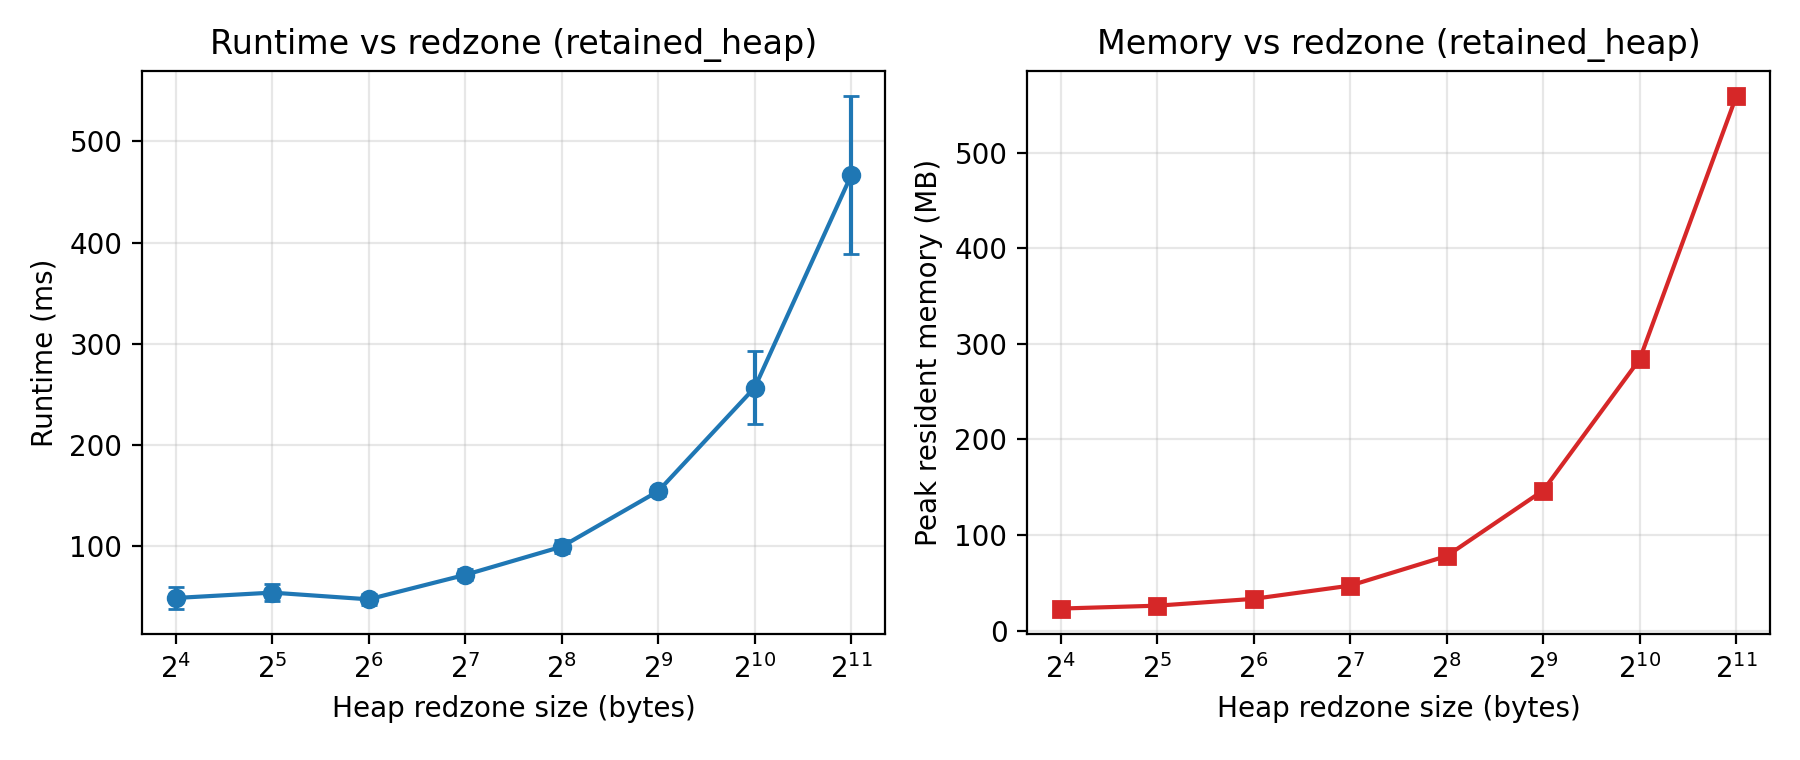
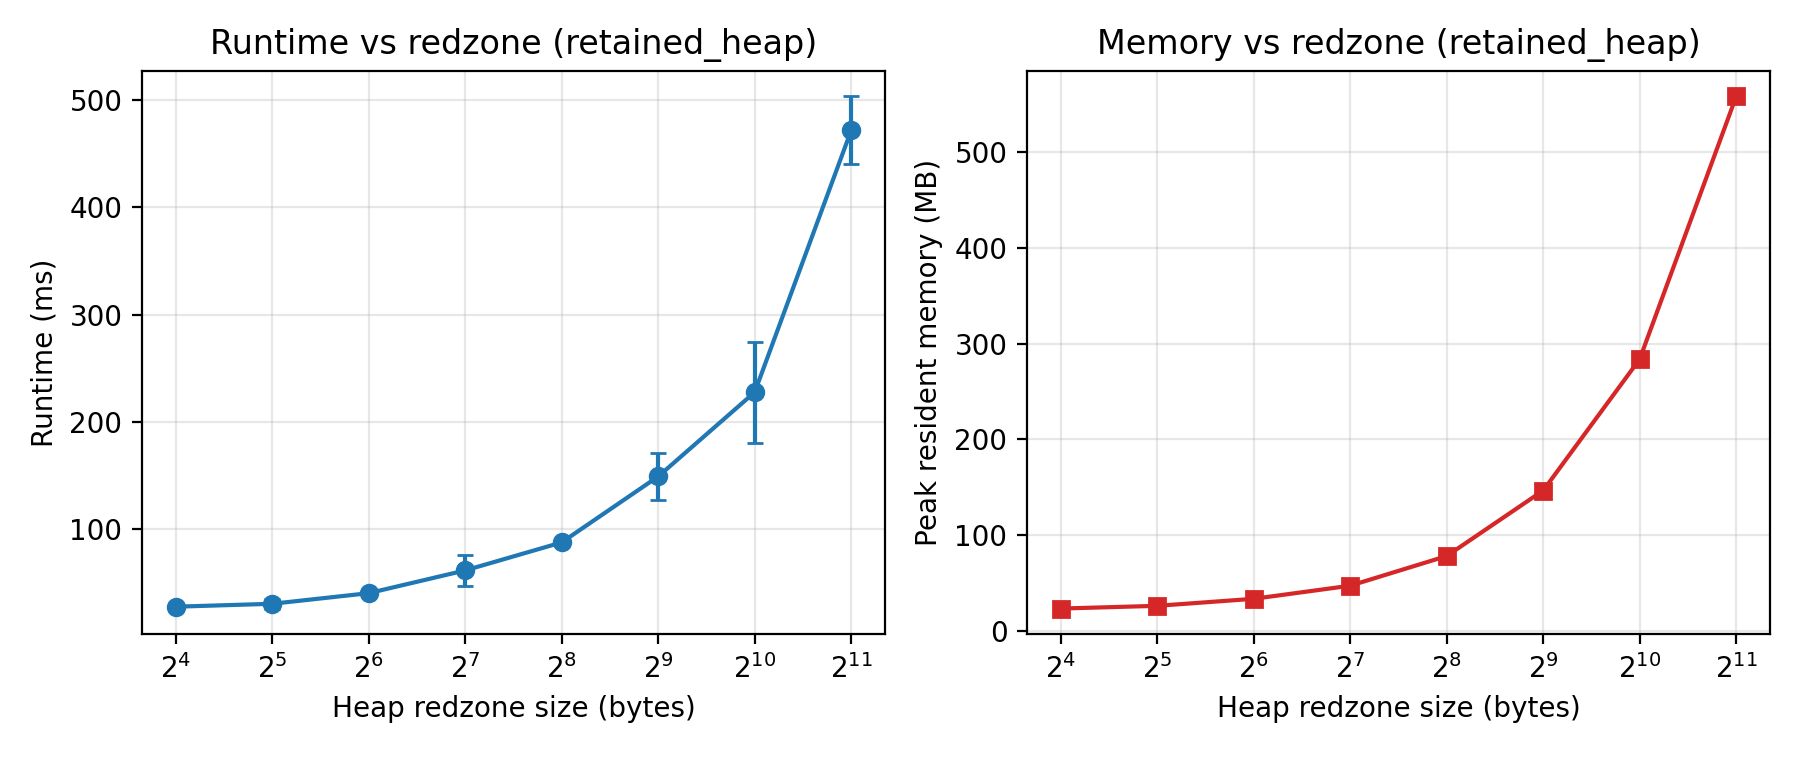
1240001636 陈禹成 (Chen Yucheng): feat: add measurements from lengthened workloads and regenerate figures
Time: malloc_heavy 22.75x (13.39x on the paper's settings), access_heavy 1.22x, mixed
4.62x.
Memory: malloc_heavy 236.52x by default, which is the constant cost of the 256MB
quarantine that the paper explicitly excludes, and 4.25x on the paper's settings.
Noise: the coefficient of variation falls from about 20% to between 0.7% and 7%.

diff --git a/docs/measured/performance.md b/docs/measured/performance.md
@@ -4,12 +4,12 @@
 本文件由 `bench/run_bench.sh` 在真实运行环境中自动生成，不是预期值；
 每次运行的原始数值见 `docs/measured/raw_runs.tsv`。
 
-- 生成时间（UTC）：`2026-11-07 05:21:09`
-- CPU：`AMD EPYC 7763 64-Core Processor`
+- 生成时间（UTC）：`2026-11-07 05:22:35`
+- CPU：`AMD EPYC 9V45 96-Core Processor`
 - 内核：`7.0.0-1019-azure`
 - 编译器：`gcc (Ubuntu 15.2.0-16ubuntu1) 15.2.0`
 - 运行次数：每配置 5 次，报告 mean ± stddev（样本标准差，n-1）
-- commit：`5e6a9fa`
+- commit：`dba9ae6`
 
 配置：**base** = 不插桩基线；**asan_default** = 默认 ASan 参数；
 **asan_paper** = ASan + 论文 §4 的测量设置（`quarantine_size_mb=0:redzone=32:malloc_context_size=0`）。
@@ -18,25 +18,25 @@
 
 | 负载 | base | asan_default | 倍率 | asan_paper | 倍率 |
 | --- | --- | --- | --- | --- | --- |
-| `malloc_heavy` | 3.10 ± 0.45 | 75.34 ± 5.09 | **24.30x** | 60.66 ± 5.72 | **19.57x** |
-| `access_heavy` | 64.84 ± 0.37 | 80.28 ± 0.27 | **1.24x** | 80.96 ± 0.83 | **1.25x** |
-| `mixed` | 7.48 ± 0.16 | 27.40 ± 8.40 | **3.66x** | 23.14 ± 4.40 | **3.09x** |
+| `malloc_heavy` | 27.12 ± 1.50 | 616.98 ± 22.22 | **22.75x** | 363.26 ± 6.36 | **13.39x** |
+| `access_heavy` | 77.18 ± 1.06 | 94.54 ± 0.69 | **1.22x** | 96.44 ± 2.44 | **1.25x** |
+| `mixed` | 10.76 ± 0.09 | 49.70 ± 2.66 | **4.62x** | 51.88 ± 3.56 | **4.82x** |
 
 ### 表 1b  测量噪声（变异系数 = stddev / mean）
 
 | 负载 | base | asan_default | asan_paper |
 | --- | --- | --- | --- |
-| `malloc_heavy` | 14.5% | 6.8% | 9.4% |
-| `access_heavy` | 0.6% | 0.3% | 1.0% |
-| `mixed` | 2.1% | 30.7% | 19.0% |
+| `malloc_heavy` | 5.5% | 3.6% | 1.8% |
+| `access_heavy` | 1.4% | 0.7% | 2.5% |
+| `mixed` | 0.8% | 5.4% | 6.9% |
 
 ## 表 2  内存（VmHWM，KB，mean ± stddev，5 次）
 
 | 负载 | base | asan_default | 倍率 | asan_paper | 倍率 |
 | --- | --- | --- | --- | --- | --- |
-| `malloc_heavy` | 1816.80 ± 1.79 | 33116.80 ± 23.90 | **18.23x** | 7766.40 ± 2.19 | **4.27x** |
-| `access_heavy` | 9607.20 ± 1.79 | 16859.20 ± 1.79 | **1.75x** | 15331.20 ± 159.36 | **1.60x** |
-| `mixed` | 5512.00 ± 0.00 | 12713.60 ± 242.86 | **2.31x** | 9699.20 ± 28.62 | **1.76x** |
+| `malloc_heavy` | 1819.20 ± 1.79 | 430285.60 ± 28.09 | **236.52x** | 7738.40 ± 17.57 | **4.25x** |
+| `access_heavy` | 9606.40 ± 3.58 | 16848.00 ± 20.78 | **1.75x** | 15390.40 ± 107.35 | **1.60x** |
+| `mixed` | 5512.00 ± 0.00 | 13776.00 ± 24.82 | **2.50x** | 11293.60 ± 117.73 | **2.05x** |
 
 ## 表 3  二进制体积
 
@@ -44,8 +44,8 @@
 
 | 构建 | 文件 | 字节 | 倍率 |
 | --- | --- | --- | --- |
-| base | build/bench_base | 27032 | 1.00x |
-| asan | build/bench_asan | 42744 | **1.58x** |
+| base | build/bench_base | 27016 | 1.00x |
+| asan | build/bench_asan | 42624 | **1.58x** |
 
 ## 读法说明
 

diff --git a/docs/measured/extension.md b/docs/measured/extension.md
@@ -9,25 +9,25 @@ memory usage`，但 §4 的性能测量固定在 32 字节，没有给出 redzon
 因为瞬时存活对象太少、红区占用不会累积。这说明**负载必须能放大被测量的因素**，
 否则实验只会得到一个无信息的空结论。
 
-- 生成时间（UTC）：`2026-11-07 05:21:14`
-- CPU：`AMD EPYC 7763 64-Core Processor`；内核 `7.0.0-1019-azure`
+- 生成时间（UTC）：`2026-11-07 05:22:39`
+- CPU：`AMD EPYC 9V45 96-Core Processor`；内核 `7.0.0-1019-azure`
 - 每档 3 次，报告 mean ± stddev（样本标准差，n-1）
 - 固定项：同一机器、同一 `bench.c`、gcc -O2、`quarantine_size_mb=0`、`malloc_context_size=0`
 - 唯一变化项：`ASAN_OPTIONS=redzone=<N>`
-- commit：`5e6a9fa`
+- commit：`dba9ae6`
 
 ## 表：`retained_heap`
 
 | redzone (B) | 时间 (ms) | 相对 32B | VmHWM (KB) | 相对 32B |
 | --- | --- | --- | --- | --- |
-| 16 | 49.13 ± 10.51 | 0.90x | 23781.33 ± 74.01 | 0.89x |
-| 32 | 54.43 ± 8.27 | 1.00x | 26850.67 ± 510.00 | 1.00x |
-| 64 | 47.80 ± 5.20 | 0.88x | 34166.67 ± 34.02 | 1.27x |
-| 128 | 71.93 ± 5.45 | 1.32x | 48338.67 ± 113.16 | 1.80x |
-| 256 | 99.77 ± 6.12 | 1.83x | 80016.00 ± 4.00 | 2.98x |
-| 512 | 154.53 ± 4.33 | 2.84x | 150161.33 ± 170.85 | 5.59x |
-| 1024 | 256.80 ± 35.87 | 4.72x | 290716.00 ± 87.73 | 10.83x |
-| 2048 | 466.50 ± 77.92 | 8.57x | 572072.00 ± 187.06 | 21.31x |
+| 16 | 27.80 ± 0.75 | 0.91x | 23757.33 ± 72.04 | 0.89x |
+| 32 | 30.50 ± 4.50 | 1.00x | 26681.33 ± 926.07 | 1.00x |
+| 64 | 40.40 ± 2.96 | 1.32x | 34193.33 ± 113.16 | 1.28x |
+| 128 | 61.60 ± 14.64 | 2.02x | 48206.67 ± 2.31 | 1.81x |
+| 256 | 87.70 ± 1.51 | 2.88x | 79953.33 ± 112.02 | 3.00x |
+| 512 | 149.17 ± 21.77 | 4.89x | 150108.00 ± 213.58 | 5.63x |
+| 1024 | 227.70 ± 46.95 | 7.47x | 290710.67 ± 108.84 | 10.90x |
+| 2048 | 471.77 ± 31.76 | 15.47x | 572008.00 ± 76.21 | 21.44x |
 
 ## 原始数据
 

diff --git a/docs/measured/environment.md b/docs/measured/environment.md
@@ -1,17 +1,17 @@
 # 运行环境
 
-采集时间（UTC）：`2026-11-07 05:21:01`
+采集时间（UTC）：`2026-11-07 05:22:24`
 
 ## 硬件
 
 ```
 Architecture:                            x86_64
 CPU(s):                                  4
-Model name:                              AMD EPYC 7763 64-Core Processor
+Model name:                              AMD EPYC 9V45 96-Core Processor
 Thread(s) per core:                      2
 Core(s) per socket:                      2
 Socket(s):                               1
-BogoMIPS:                                4890.86
+BogoMIPS:                                5192.19
 ```
 
 内存总量：`15.6 GB`
@@ -55,8 +55,8 @@ SANFLAGS     = <默认值，见 Makefile>
 ## 代码版本
 
 ```
-commit  = 5e6a9faff25ace6764df30cc3f466785f77624a3
+commit  = dba9ae64f6f7d20abd541958b73cfe4ac08a384f
 branch  = main
-subject = 1240001636 Chen Yucheng: 修正 Extension 负载设计，改为持续持有 20 万小对象
+subject = 1240001636 Chen Yucheng: 加长基准负载至数百毫秒量级，并加入图表生成
 workdir = /home/runner/work/CS340-ASan-Reproduction/CS340-ASan-Reproduction
 ```

diff --git a/docs/measured/exp_quarantine.md b/docs/measured/exp_quarantine.md
@@ -7,8 +7,8 @@
 被测程序：`src/01_heap_use_after_free.c`（malloc(16) → free → 再读 `buf[2]`）。
 16 字节小对象属于最容易被分配器立刻复用的尺寸。
 
-- 运行时间（UTC）：`2026-11-07 05:21:14`
-- commit：`5e6a9fa`
+- 运行时间（UTC）：`2026-11-07 05:22:39`
+- commit：`dba9ae6`
 
 | quarantine | 退出码 | 是否报错 | 报告类别 |
 | --- | --- | --- | --- |
